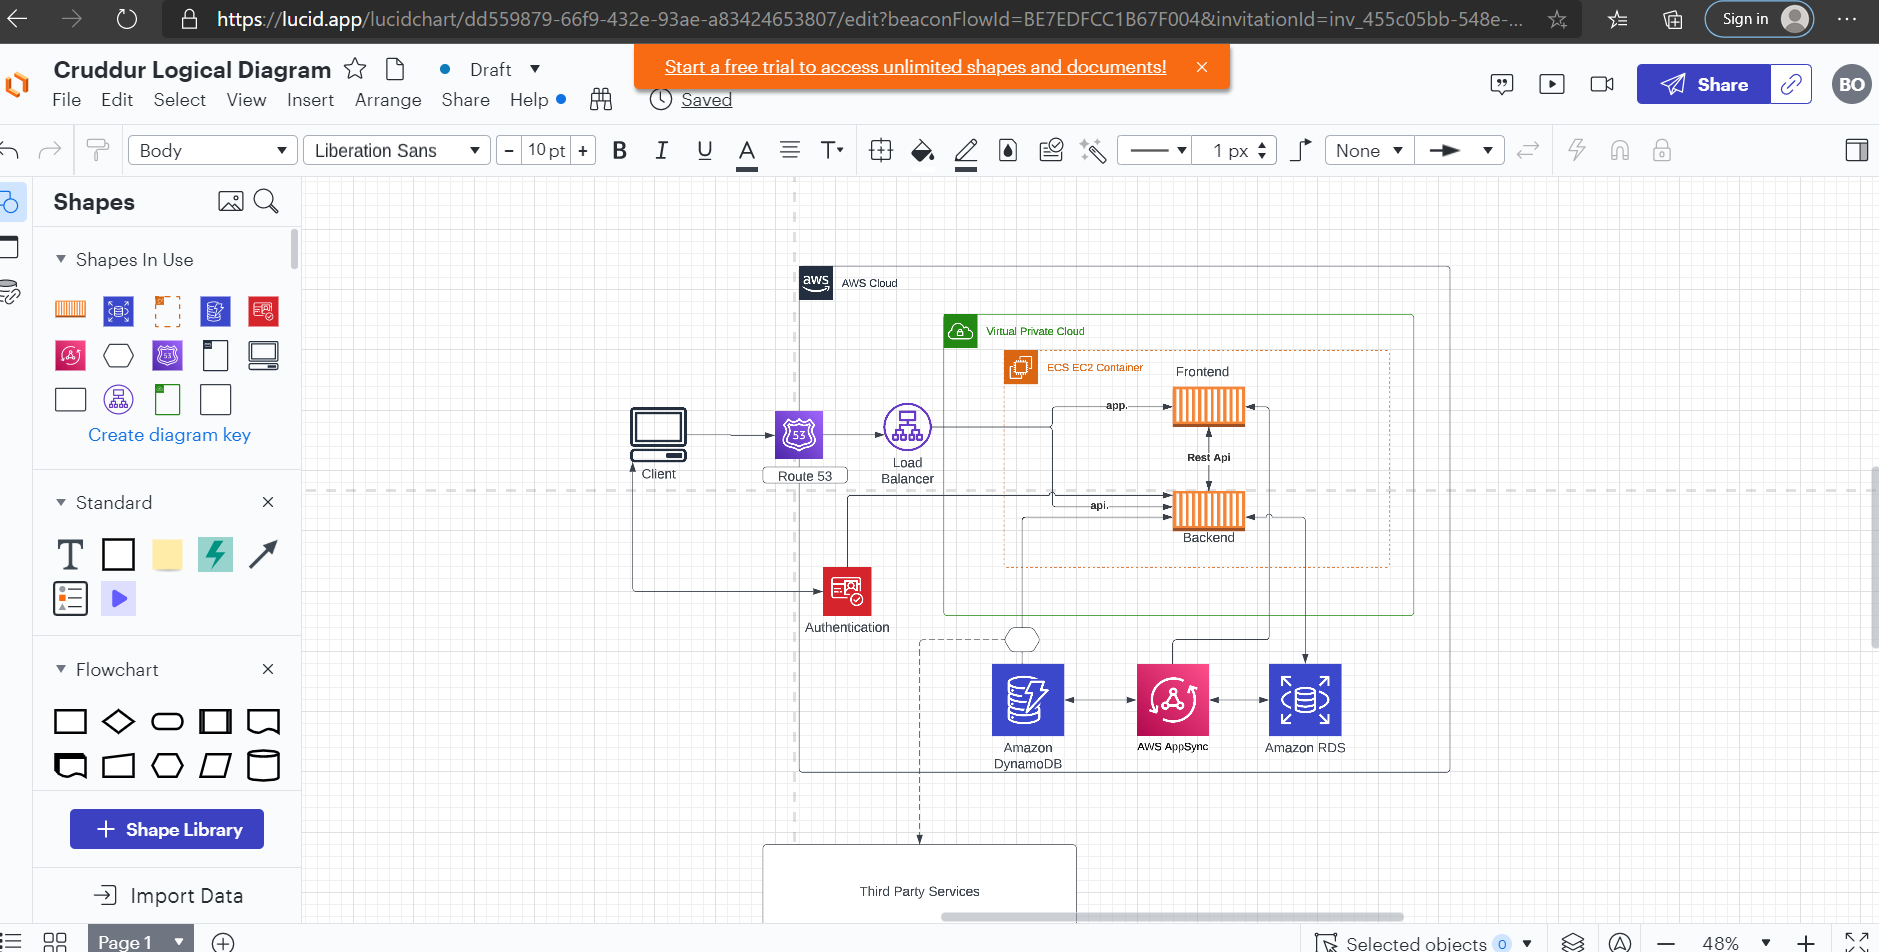
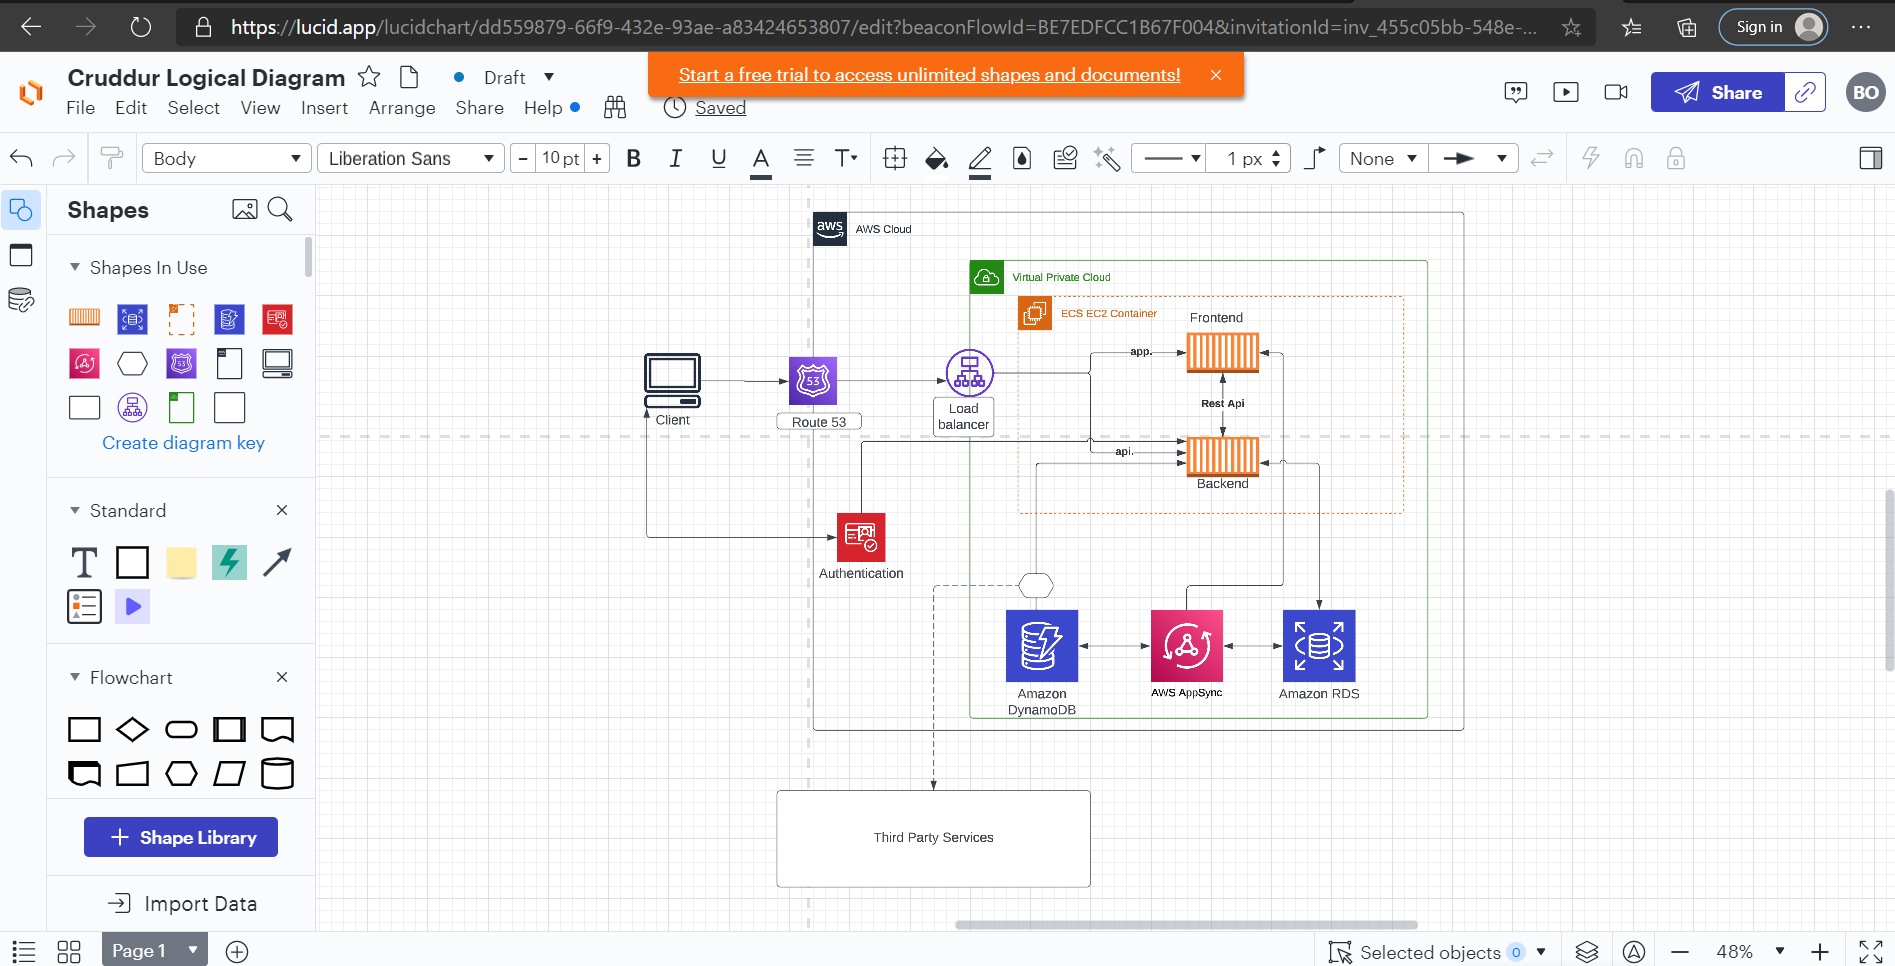
Updated

diff --git a/journal/week0.md b/journal/week0.md
@@ -2,7 +2,7 @@
 
 ## Getting the AWS CLI working
 
- Installed the AWS CLI using gitpod environment and saved the configuration file in the gitpod.yaml file.
+ I installed the AWS CLI using gitpod environment and saved the configuration file in the gitpod.yaml file.
 Created a new user and generated AWS credentials for the user by:
 
 - Navigating to the IAM USERS Console and enabling access for the user.
@@ -13,17 +13,27 @@ Created a new user and generated AWS credentials for the user by:
 - Downloaded the CSV with the credentials.
 Created both a Billing Alert and AWS Budget.
 
-Then using Lucid charts created Cruddur Conceptual Diagram and Cruddur Logical Diagram as shown below:
+Then using Lucid charts recreated Cruddur Conceptual Diagram and Cruddur Logical Diagram as shown below:
 
-![image](./assets/Crudder-Conceptual-Diagram.png)
-<!-- ![lucid chart image](https://github.com/Benedicta-Onyekwere/aws-bootcamp-cruddur-2023/blob/main/journal/assets/Crudder%20Conceptual%20Diagram.png) -->
+## Recreated Cruddur Conceptual Diagram
 
-![image](./assets/Crudder-Logical-Diagram.png)
-<!-- ![lucid chart image](https://github.com/Benedicta-Onyekwere/aws-bootcamp-cruddur-2023/blob/main/journal/assets/Crudder%20Logical%20Diagram.png) -->
+![recreated_cruddur_conceptual_design](./assets/Crudder-Conceptual-Diagram.png)
 
-Though i could not create the SeverlesCaching due to the fact that it required upgrading my free account in order to enable it allow a premium feature as shown below:
-
-![image](./assets/Crudder-SVG.png)
-<!-- ![image](https://github.com/Benedicta-Onyekwere/aws-bootcamp-cruddur-2023/blob/main/journal/assets/Crudder%20SVG%20.png) -->
+[Lucid Chart Share Link](https://lucid.app/lucidchart/32e9d2d4-e003-439a-9446-27ac60020ef5/edit?viewport_loc=-82%2C-10%2C1969%2C931%2C0_0&invitationId=inv_e718efa7-8c15-447c-bb3c-eafeb1a780f3)
 
 
+## Recreated Cruddur Architectural Logical Diagram
+![recreated_cruddur_logical_design](./assets/Crudder-Logical-Diagram.png)
+
+[Lucid Chart Share Link](https://lucid.app/lucidchart/dd559879-66f9-432e-93ae-a83424653807/edit?viewport_loc=-786%2C-388%2C2622%2C1240%2C0_0&invitationId=inv_455c05bb-548e-4bfb-a985-05a677063bf8)
+
+
+Though i could not create the Severless Caching due to the fact that it required upgrading my free account in order to enable it allow a premium feature as shown below:
+
+![Cruddur_SVG_Proof](./assets/Crudder-SVG.png)
+
+
+## Aws Budget
+I created a Zero-spend-budget which notifies me whenever i excced my free tier limit.
+
+![aws_budget](./assets/Aws-budget.png)
